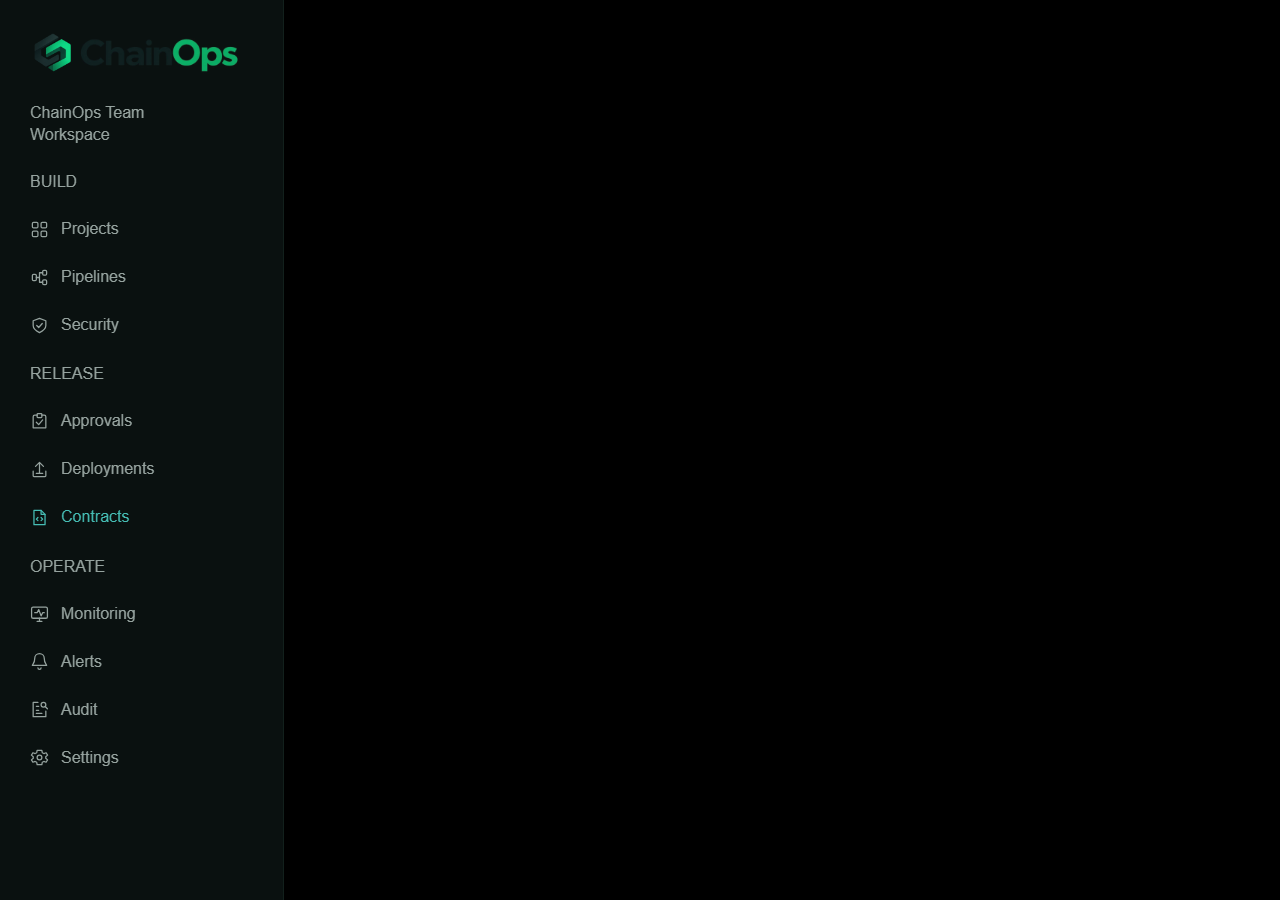
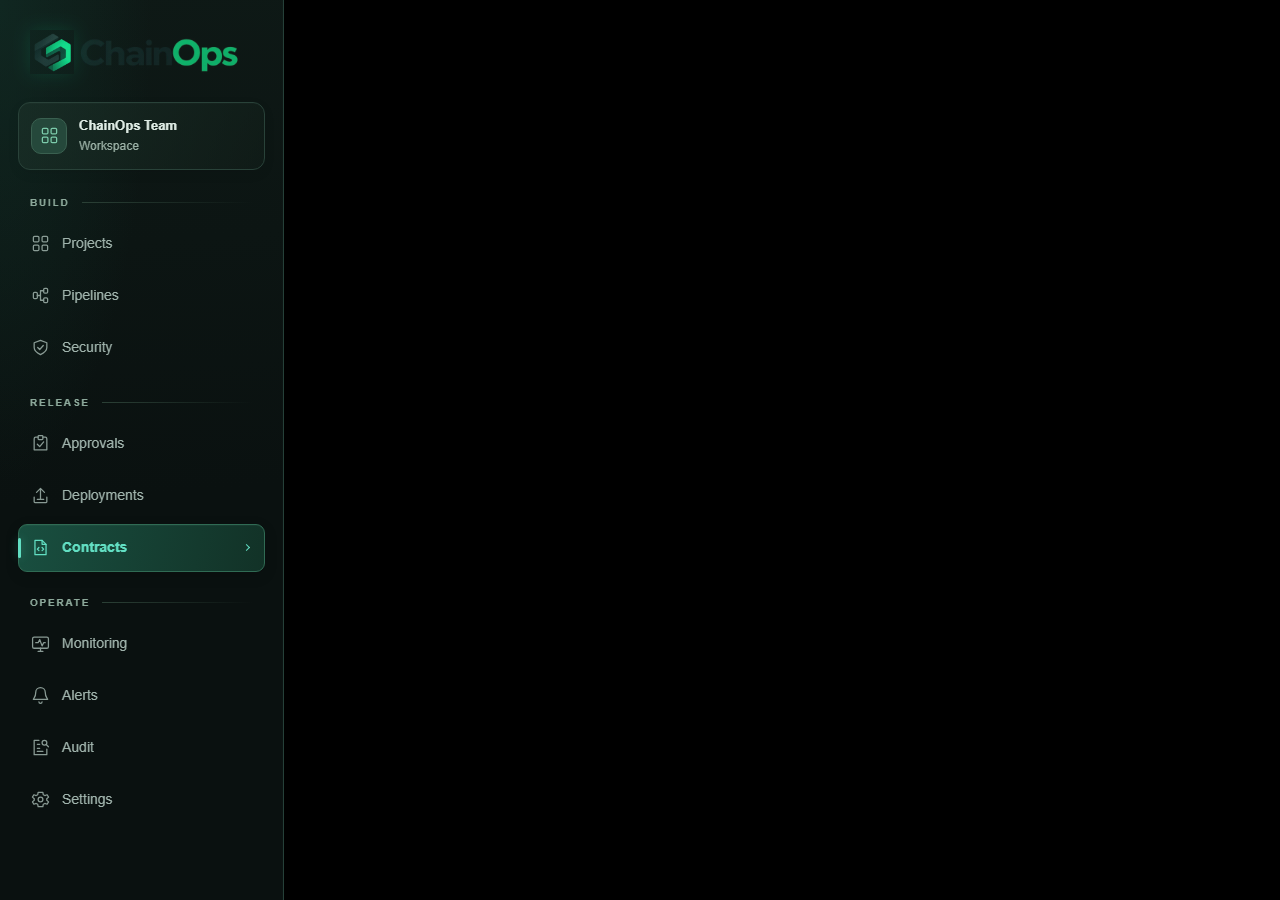
feat(sidebar): enhance sidebar component with new sectionStyle prop and improved layout

Changed region(s): [[0.0, 0.0311, 0.2188, 0.9022]]

diff --git a/apps/web/src/components/Sidebar/Sidebar.css b/apps/web/src/components/Sidebar/Sidebar.css
@@ -1,7 +1,7 @@
 .chainops-sidebar {
   --sidebar-background: #0a1110;
-  --sidebar-muted: #96a39f;
-  --sidebar-accent: #46bdb4;
+  --sidebar-muted: #a0b3ac;
+  --sidebar-accent: #62dfc3;
   box-sizing: border-box;
   flex: 0 0 284px;
   width: 284px;
@@ -12,11 +12,12 @@
   scrollbar-width: thin;
   scrollbar-color: #263b35 var(--sidebar-background);
   padding: 30px 18px 32px;
-  background: var(--sidebar-background);
+  background: radial-gradient(ellipse at 0 0, #12352c80, transparent 38%), linear-gradient(175deg, #0e1916, var(--sidebar-background) 55%);
   color: var(--sidebar-muted);
-  border-right: 1px solid #12201c;
+  border-right: 1px solid #254038;
+  box-shadow: inset -1px 0 0 #ffffff03, 8px 0 32px #0000001a;
   font-family: Arial, sans-serif;
-  font-size: 16px;
+  font-size: 14px;
   font-weight: 400;
   line-height: 1.4;
   text-align: left;
@@ -44,6 +45,7 @@
   height: 44px;
   object-fit: cover;
   mix-blend-mode: screen;
+  filter: drop-shadow(0 0 9px #00d99024);
 }
 
 /* branding.jpg includes its own symbol. Crop to the supplied wordmark only. */
@@ -68,21 +70,65 @@
 
 .chainops-sidebar__workspace {
   display: flex;
-  flex-direction: column;
+  align-items: center;
   margin: 0 12px 24px;
+  padding: 0 0 20px;
+  border-bottom: 1px solid #263b32;
   overflow-wrap: anywhere;
 }
 
-.chainops-sidebar__group { margin: 0 0 14px; }
+.chainops-sidebar__workspace-copy { display: flex; flex-direction: column; gap: 6px; min-width: 0; }
+.chainops-sidebar__workspace-label {
+  color: #9aafa4;
+  font-size: 10px;
+  font-weight: 500;
+  letter-spacing: 1.6px;
+  text-transform: uppercase;
+}
+.chainops-sidebar__workspace-name {
+  color: #e0ede6;
+  font-weight: 600;
+  font-size: 15px;
+  letter-spacing: -.2px;
+}
+
+.chainops-sidebar__group { margin: 0 0 24px; }
 .chainops-sidebar__group:last-child { margin-bottom: 0; }
 
 .chainops-sidebar .chainops-sidebar__heading {
   margin: 0;
-  padding: 0 12px 12px;
-  color: var(--sidebar-muted);
-  font: inherit;
+  display: flex;
+  align-items: center;
+  gap: 12px;
+  padding: 0 12px 10px;
+  color: #8da99b;
+  font: 600 10px/1.4 Arial, sans-serif;
+  letter-spacing: 1.8px;
   text-transform: uppercase;
 }
+
+.chainops-sidebar__heading::after { content: ''; height: 1px; flex: 1; background: linear-gradient(90deg, #2b4036, transparent); }
+
+.chainops-sidebar--accent .chainops-sidebar__heading {
+  display: flex;
+  width: fit-content;
+  max-width: calc(100% - 24px);
+  gap: 9px;
+  margin: 0 12px 10px;
+  padding: 4px 0;
+  color: #a6bdb0;
+  font-size: 11px;
+  letter-spacing: 1.6px;
+  overflow-wrap: anywhere;
+}
+.chainops-sidebar--accent .chainops-sidebar__heading::before {
+  content: '';
+  flex: 0 0 2px;
+  height: 11px;
+  border-radius: 1px;
+  background: linear-gradient(#7cdbb4, #386d56);
+}
+.chainops-sidebar--accent .chainops-sidebar__heading::after { content: none; }
 
 .chainops-sidebar .chainops-sidebar__list {
   display: block;
@@ -91,26 +137,57 @@
   list-style: none;
 }
 
-.chainops-sidebar__list li { margin: 0; padding: 0; }
+.chainops-sidebar__list li { margin: 0 0 4px; padding: 0; }
 
 .chainops-sidebar .chainops-sidebar__link {
   display: flex;
+  position: relative;
   align-items: center;
   gap: 12px;
   min-height: 48px;
   padding: 10px 12px;
-  border-radius: 6px;
+  border: 1px solid transparent;
+  border-radius: 9px;
   color: var(--sidebar-muted);
   font: inherit;
   text-decoration: none;
   overflow-wrap: anywhere;
-  transition: color 150ms ease, background-color 150ms ease;
+  transition: color 150ms ease, background-color 150ms ease, border-color 150ms ease;
 }
 
-.chainops-sidebar__icon { flex: 0 0 19px; width: 19px; height: 19px; }
-.chainops-sidebar .chainops-sidebar__link:hover { color: #e1eeea; background: #12201c; }
-.chainops-sidebar .chainops-sidebar__link--active { color: var(--sidebar-accent); }
-.chainops-sidebar .chainops-sidebar__link--active:hover { color: var(--sidebar-accent); }
+.chainops-sidebar__icon { flex: 0 0 19px; width: 19px; height: 19px; opacity: .85; }
+.chainops-sidebar .chainops-sidebar__link:hover { color: #e1eeea; background: #192c24; border-color: #2c4438; }
+.chainops-sidebar .chainops-sidebar__link--active {
+  color: var(--sidebar-accent);
+  padding-right: 30px;
+  background: linear-gradient(100deg, #194f40, #123227);
+  border-color: #306b54;
+  box-shadow: inset 0 1px 0 #b5ffdc0a, 0 4px 14px #00000024;
+  font-weight: 600;
+}
+.chainops-sidebar__link--active::before {
+  content: '';
+  position: absolute;
+  left: -1px;
+  top: 13px;
+  bottom: 13px;
+  width: 3px;
+  border-radius: 3px;
+  background: var(--sidebar-accent);
+  box-shadow: 0 0 10px #62dfc355;
+}
+.chainops-sidebar__link--active::after {
+  content: '';
+  position: absolute;
+  right: 15px;
+  width: 5px;
+  height: 5px;
+  border-right: 1.5px solid currentColor;
+  border-top: 1.5px solid currentColor;
+  transform: rotate(45deg);
+}
+.chainops-sidebar .chainops-sidebar__link--active:hover { color: var(--sidebar-accent); background: #1b4b39; border-color: #43866a; }
+.chainops-sidebar__link--active .chainops-sidebar__icon { opacity: 1; }
 .chainops-sidebar a:focus-visible { outline: 2px solid var(--sidebar-accent); outline-offset: 2px; }
 
 @media (prefers-reduced-motion: reduce) {

diff --git a/apps/web/src/components/Sidebar/Sidebar.tsx b/apps/web/src/components/Sidebar/Sidebar.tsx
@@ -27,6 +27,7 @@ export interface SidebarProps {
   logoSrc?: string
   brandingSrc?: string
   className?: string
+  sectionStyle?: 'accent' | 'line'
   onNavigate?: () => void
 }
 
@@ -57,6 +58,7 @@ export function Sidebar({
   logoSrc = `${import.meta.env.BASE_URL}logo.jpg`,
   brandingSrc = `${import.meta.env.BASE_URL}branding.jpg`,
   className = '',
+  sectionStyle = 'accent',
   onNavigate,
 }: SidebarProps) {
   const projectPath = `/projects/${encodeURIComponent(projectId)}`
@@ -79,7 +81,7 @@ export function Sidebar({
     ] },
   ]
 
-  return <aside className={`chainops-sidebar ${className}`} aria-label="Workspace sidebar">
+  return <aside className={`chainops-sidebar chainops-sidebar--${sectionStyle} ${className}`} aria-label="Workspace sidebar">
     <NavLink className="chainops-sidebar__brand" to={brandHref} aria-label="ChainOps home" onClick={onNavigate}>
       <img className="chainops-sidebar__logo" src={logoSrc} alt="" width="44" height="44" />
       <span className="chainops-sidebar__wordmark" aria-hidden="true">
@@ -87,8 +89,10 @@ export function Sidebar({
       </span>
     </NavLink>
     <div className="chainops-sidebar__workspace">
-      <span>{workspaceName}</span>
-      <span>{workspaceDescription}</span>
+      <div className="chainops-sidebar__workspace-copy">
+        <span className="chainops-sidebar__workspace-label">{workspaceDescription}</span>
+        <span className="chainops-sidebar__workspace-name">{workspaceName}</span>
+      </div>
     </div>
     <nav className="chainops-sidebar__navigation" aria-label="Main navigation">
       {navigation.map(group => <section className="chainops-sidebar__group" key={group.label} aria-label={group.label}>

diff --git a/apps/web/src/components/Sidebar/README.md b/apps/web/src/components/Sidebar/README.md
@@ -28,7 +28,9 @@ Pass `groups` to supply the application's actual routes (for example the current
 standalone `/deployments` route). This component does not register those routes.
 
 Optional props: `workspaceName`, `workspaceDescription`, `brandHref`, `logoSrc`,
-`brandingSrc`, `className`, and `onNavigate` (for closing a parent mobile drawer).
+`brandingSrc`, `className`, `sectionStyle`, and `onNavigate` (for closing a parent mobile drawer).
+Section labels use unboxed text with a slim accent via `sectionStyle="accent"` by default. Pass
+`sectionStyle="line"` to use the earlier uppercase labels with divider lines.
 The `groups` prop accepts named groups of `{ label, to, icon, end? }` items. Icon
 names and props are exported as TypeScript types from this folder.
 
